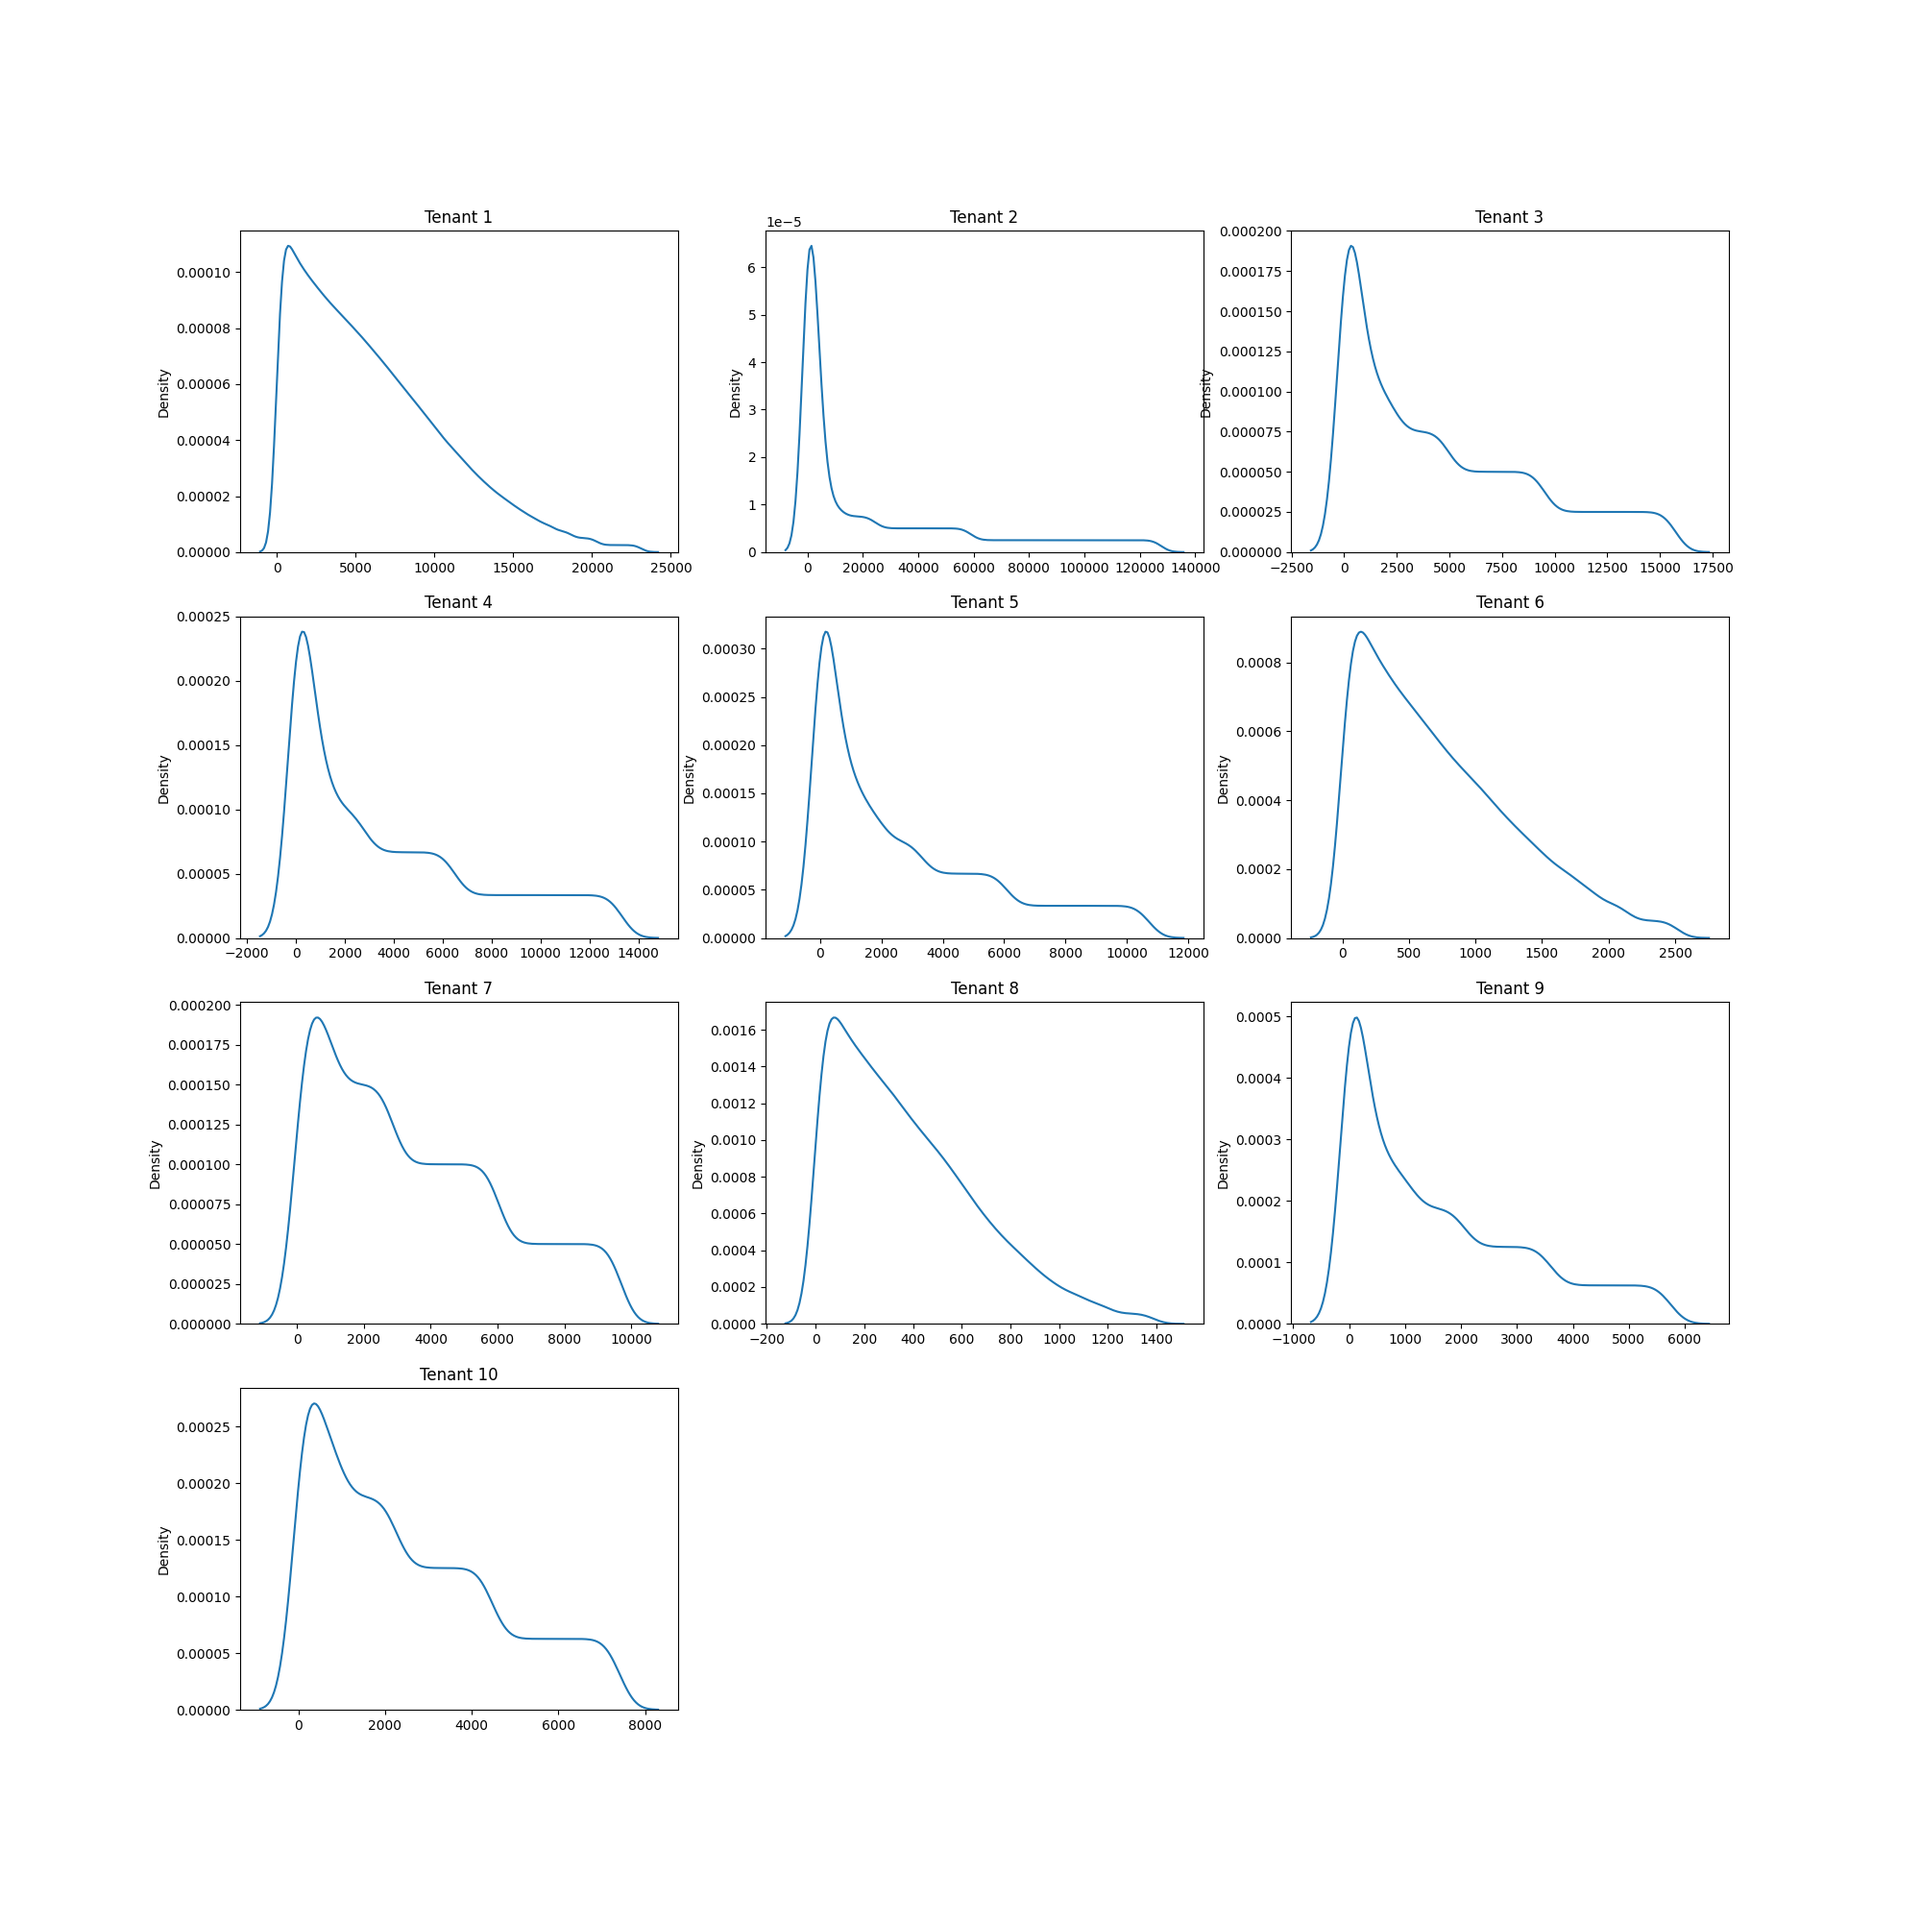
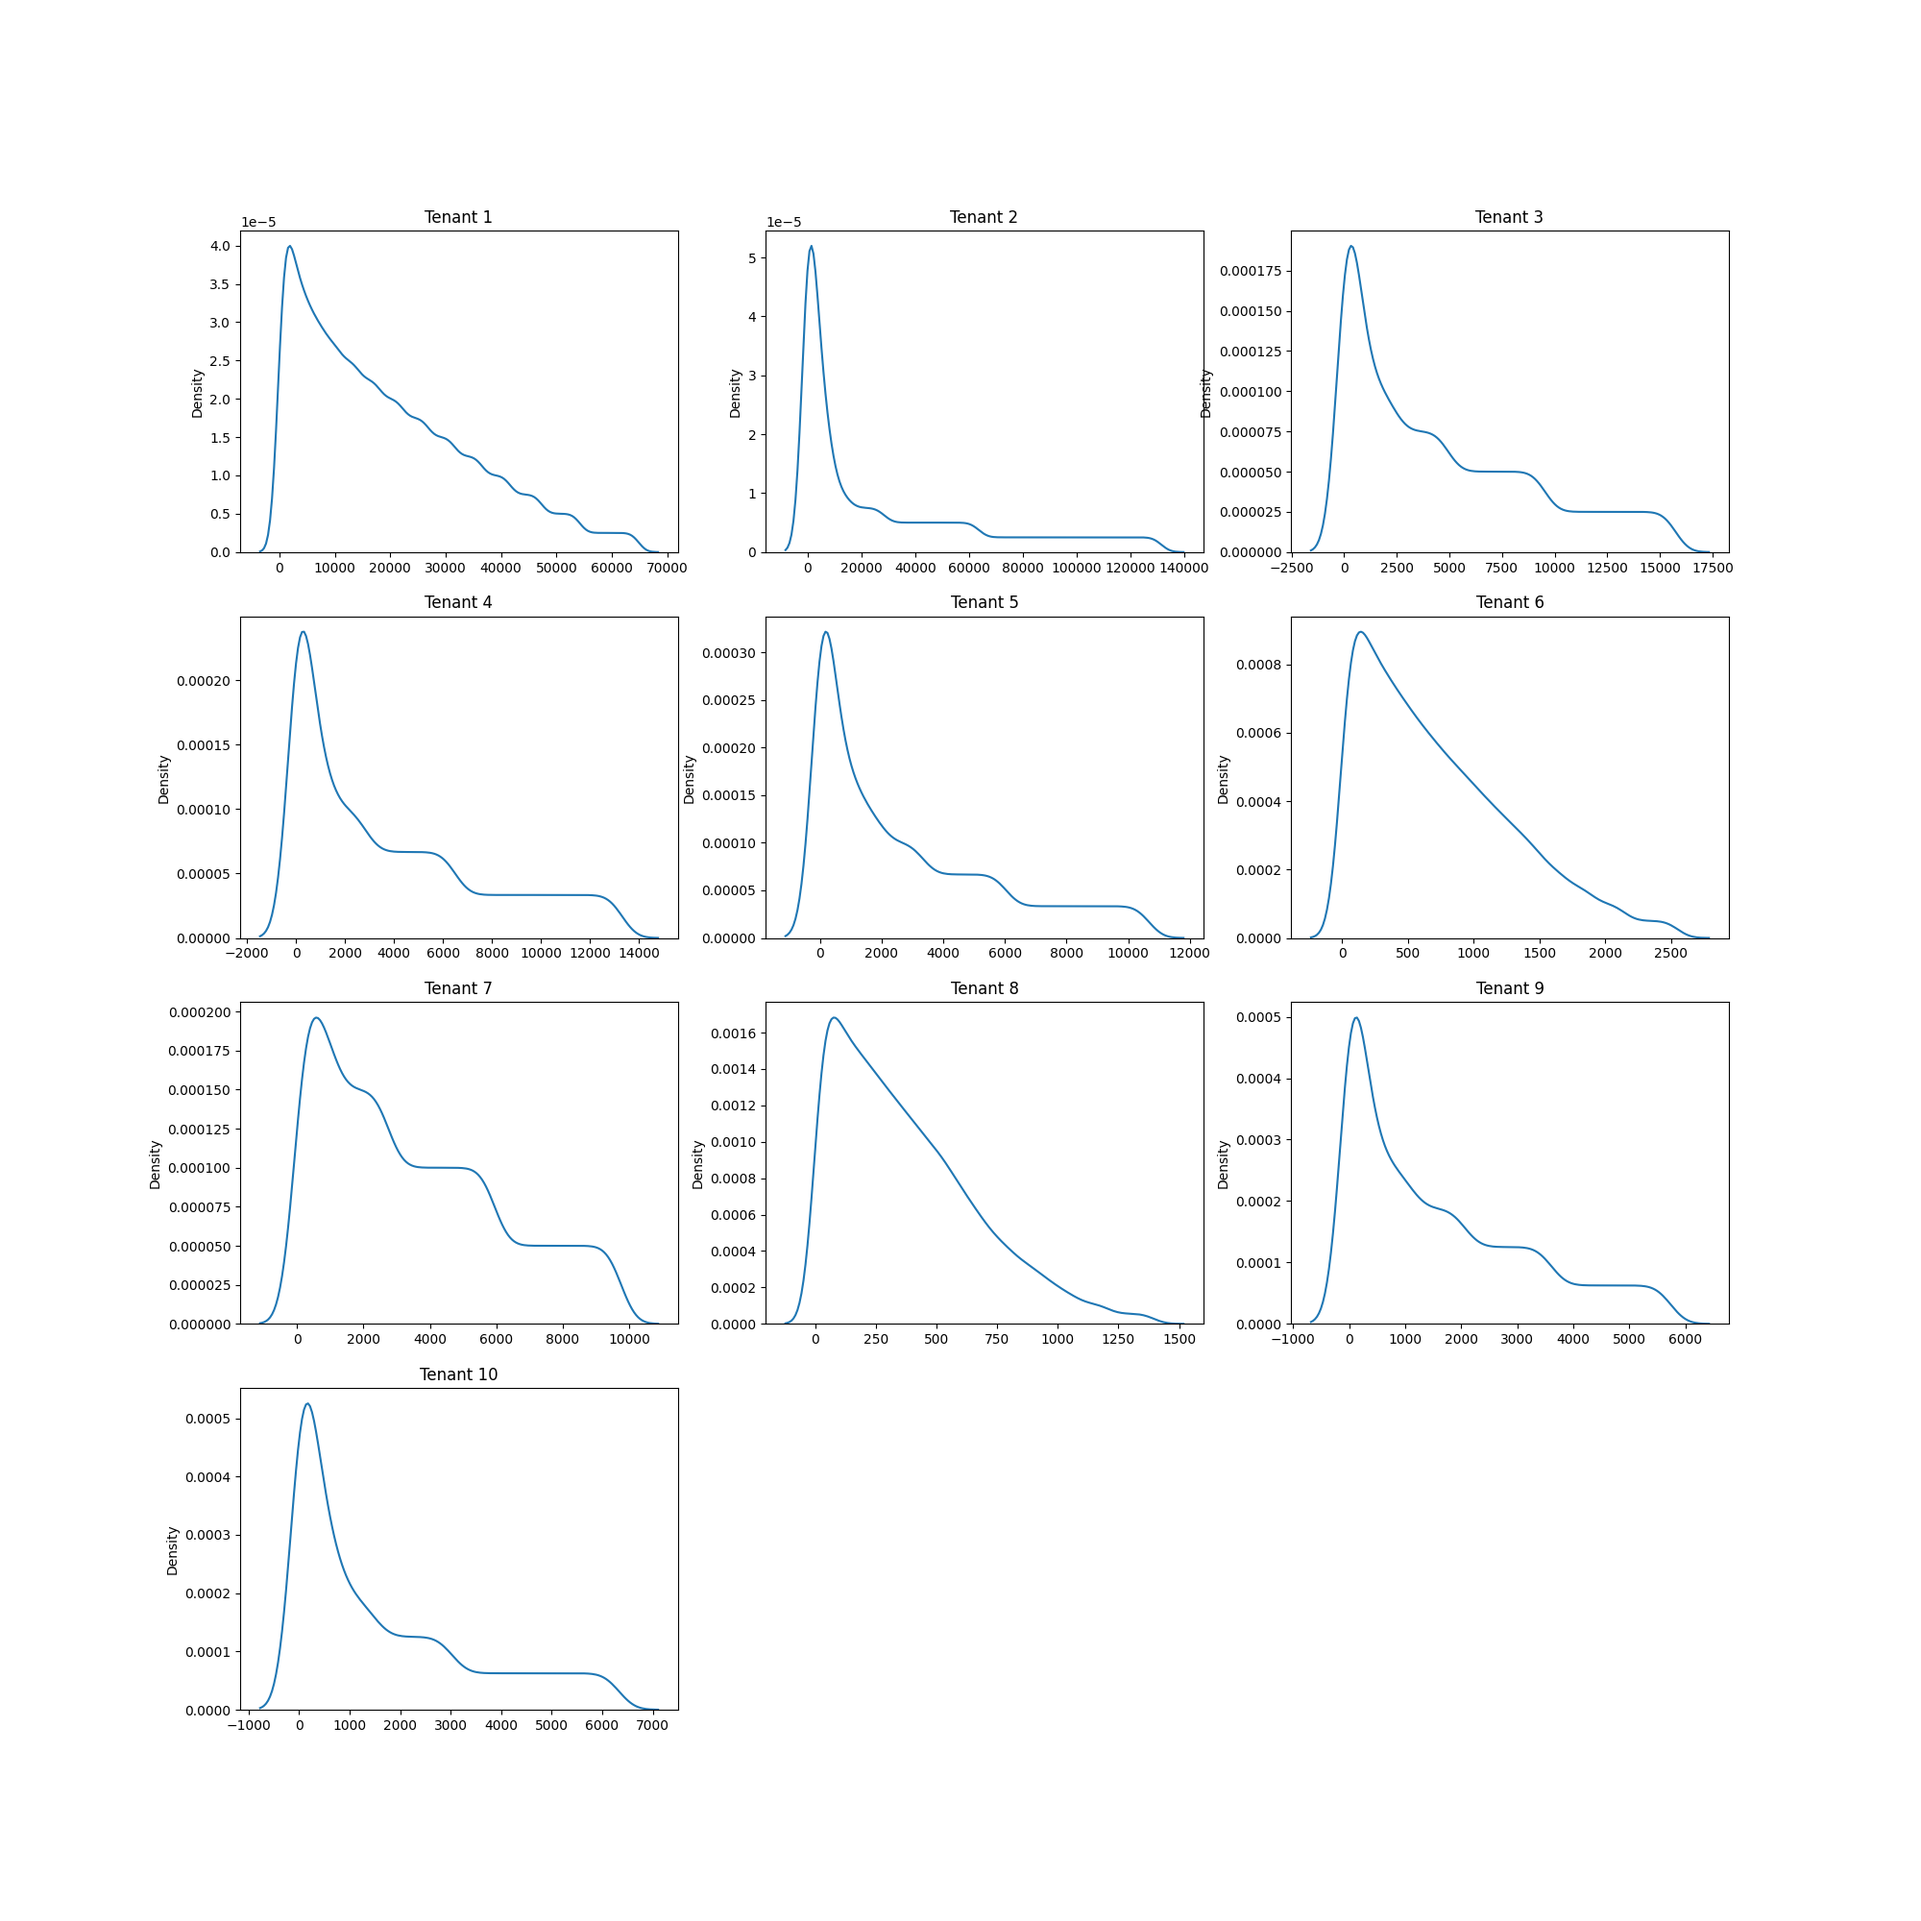
feat/modify-test-6

diff --git a/test_cases/test_case_6/description.py b/test_cases/test_case_6/description.py
@@ -9,17 +9,16 @@ tenants = [
         'minimum_buffer_size': 10000,
         'base_buffer_size': 30000,
         'maximum_buffer_size': 100000,
-        'page_accesses_dist': {
+        'page_accesses_dist': [
+          {
             'type': 'normal',
             'variance': 8000,
-            'length': 400000,
-        },
-        'pages_should_be_renumbered': False,
-        'page_accesses_interval_dist': {
-            'type': 'uniform',
-            'length': 400000,
-            'max_value': 1,
-        },
+            'length': 100000,
+            'interval_type': 'uniform',
+            'interval_max_value': 1,
+          },
+        ] * 4,
+        'pages_should_be_renumbered': True,
     },
     {
         'tenant_id': 2,
@@ -28,17 +27,16 @@ tenants = [
         'minimum_buffer_size': 10000,
         'base_buffer_size': 30000,
         'maximum_buffer_size': 100000,
-        'page_accesses_dist': {
+        'page_accesses_dist': [
+          {
             'type': 'pareto',
             'parameter': 0.04,
-            'length': 400000,
-        },
-        'pages_should_be_renumbered': False,
-        'page_accesses_interval_dist': {
-            'type': 'uniform',
-            'length': 400000,
-            'max_value': 1,
-        },
+            'length': 200000,
+            'interval_type': 'uniform',
+            'interval_max_value': 1,
+          },
+        ] * 2,
+        'pages_should_be_renumbered': True,
     },
     {
         'tenant_id': 3,
@@ -47,18 +45,17 @@ tenants = [
         'minimum_buffer_size': 1500,
         'base_buffer_size': 5000,
         'maximum_buffer_size': 12500,
-        'page_accesses_dist': {
+        'page_accesses_dist': [
+          {
             'type': 'zipfian',
             'parameter': 1.01,
             'length': 40000,
-        },
+            'interval_type': 'zipfian',
+            'interval_parameter': 3,
+            'interval_max_value': 4000,
+          },
+        ],
         'pages_should_be_renumbered': True,
-        'page_accesses_interval_dist': {
-            'type': 'zipfian',
-            'length': 40000,
-            'parameter': 3,
-            'max_value': 4000,
-        },
     },
     {
         'tenant_id': 4,
@@ -67,17 +64,16 @@ tenants = [
         'minimum_buffer_size': 1200,
         'base_buffer_size': 4000,
         'maximum_buffer_size': 10000,
-        'page_accesses_dist': {
+        'page_accesses_dist': [
+          {
             'type': 'zipfian',
             'parameter': 1.01,
             'length': 30000,
-        },
+            'interval_type': 'uniform',
+            'interval_max_value': 1,
+          },
+        ],
         'pages_should_be_renumbered': False,
-        'page_accesses_interval_dist': {
-            'type': 'uniform',
-            'length': 30000,
-            'max_value': 1,
-        },
     },
     {
         'tenant_id': 5,
@@ -86,18 +82,17 @@ tenants = [
         'minimum_buffer_size': 1200,
         'base_buffer_size': 4000,
         'maximum_buffer_size': 10000,
-        'page_accesses_dist': {
+        'page_accesses_dist': [
+          {
             'type': 'pareto',
             'parameter': 0.04,
             'length': 30000,
             'max_value': 3000,
-        },
+            'interval_type': 'uniform',
+            'interval_max_value': 1,
+          },
+        ],
         'pages_should_be_renumbered': False,
-        'page_accesses_interval_dist': {
-            'type': 'uniform',
-            'length': 30000,
-            'max_value': 1,
-        },
     },
     {
         'tenant_id': 6,
@@ -106,17 +101,16 @@ tenants = [
         'minimum_buffer_size': 1000,
         'base_buffer_size': 3000,
         'maximum_buffer_size': 7000,
-        'page_accesses_dist': {
+        'page_accesses_dist': [
+          {
             'type': 'normal',
             'variance': 1000,
             'length': 20000,
-        },
+            'interval_type': 'uniform',
+            'interval_max_value': 1,
+          },
+        ],
         'pages_should_be_renumbered': False,
-        'page_accesses_interval_dist': {
-            'type': 'uniform',
-            'length': 20000,
-            'max_value': 1,
-        },
     },
     {
         'tenant_id': 7,
@@ -125,16 +119,15 @@ tenants = [
         'minimum_buffer_size': 1000,
         'base_buffer_size': 3000,
         'maximum_buffer_size': 7000,
-        'page_accesses_dist': {
+        'page_accesses_dist': [
+          {
             'type': 'uniform',
             'length': 20000,
-        },
+            'interval_type': 'uniform',
+            'interval_max_value': 10,
+          },
+        ],
         'pages_should_be_renumbered': True,
-        'page_accesses_interval_dist': {
-            'type': 'uniform',
-            'length': 20000,
-            'max_value': 10,
-        },
     },
     {
         'tenant_id': 8,
@@ -143,17 +136,16 @@ tenants = [
         'minimum_buffer_size': 500,
         'base_buffer_size': 1500,
         'maximum_buffer_size': 4000,
-        'page_accesses_dist': {
+        'page_accesses_dist': [
+          {
             'type': 'normal',
             'variance': 500,
             'length': 18000,
-        },
+            'interval_type': 'uniform',
+            'interval_max_value': 1,
+          },
+        ],
         'pages_should_be_renumbered': False,
-        'page_accesses_interval_dist': {
-            'type': 'uniform',
-            'length': 18000,
-            'max_value': 1,
-        },
     },
     {
         'tenant_id': 9,
@@ -162,17 +154,16 @@ tenants = [
         'minimum_buffer_size': 500,
         'base_buffer_size': 1500,
         'maximum_buffer_size': 4000,
-        'page_accesses_dist': {
+        'page_accesses_dist': [
+          {
             'type': 'pareto',
             'parameter': 0.04,
             'length': 16000,
-        },
+            'interval_type': 'uniform',
+            'interval_max_value': 1,
+          },
+        ],
         'pages_should_be_renumbered': False,
-        'page_accesses_interval_dist': {
-            'type': 'uniform',
-            'length': 16000,
-            'max_value': 1,
-        },
     },
     {
         'tenant_id': 10,
@@ -181,18 +172,16 @@ tenants = [
         'minimum_buffer_size': 500,
         'base_buffer_size': 1500,
         'maximum_buffer_size': 4000,
-        'page_accesses_dist': {
+        'page_accesses_dist': [
+          {
             'type': 'pareto',
             'parameter': 0.04,
             'length': 16000,
-        },
+            'interval_type': 'uniform',
+            'interval_max_value': 1,
+          },
+        ],
         'pages_should_be_renumbered': True,
-        'page_accesses_interval_dist': {
-            'type': 'pareto',
-            'length': 16000,
-            'parameter': 1,
-            'max_value': 1000,
-        },
     },
 ]
 
